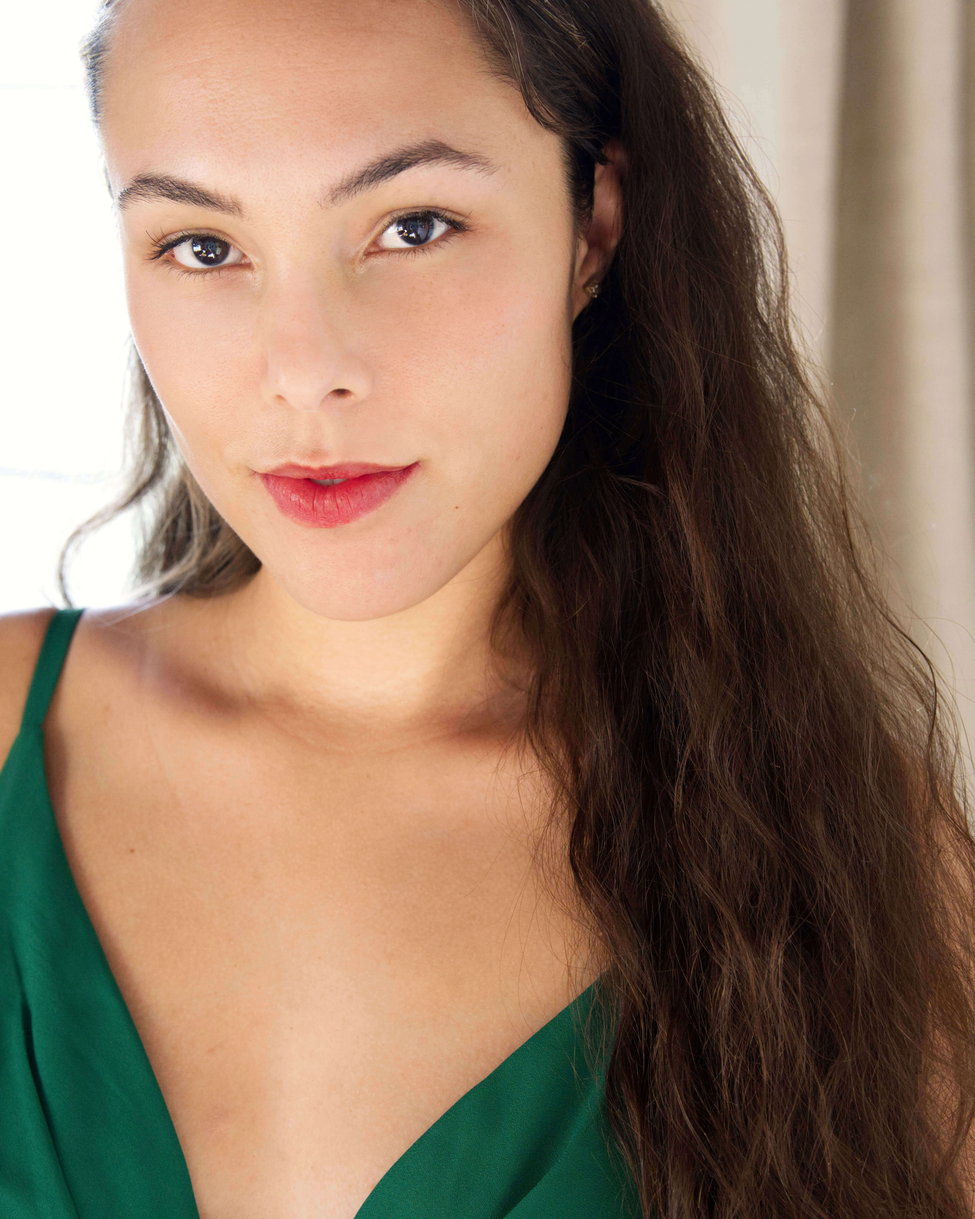
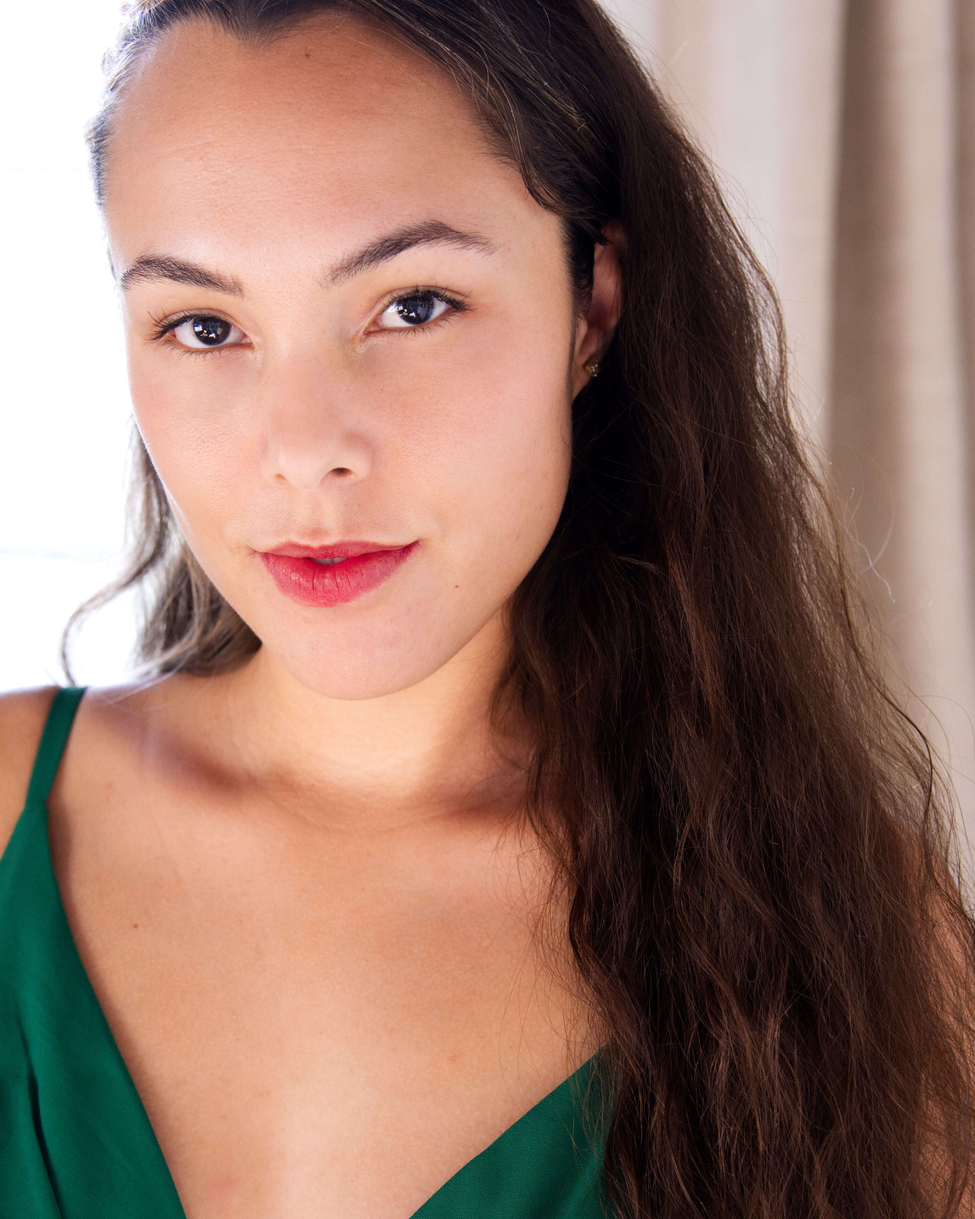
update headshot

diff --git a/src/App.js b/src/App.js
@@ -204,7 +204,7 @@ function App() {
         <div className="grid grid-cols-2 mb-8 md:w-3/4 m-auto gap-8">
           <div>
             <img
-              src="DominiqueStarHeadshot2.jpeg?v=4"
+              src="DominiqueStarHeadshot2.jpeg?v=5"
               alt="Dominique Star Headshot"
             />
           </div>
